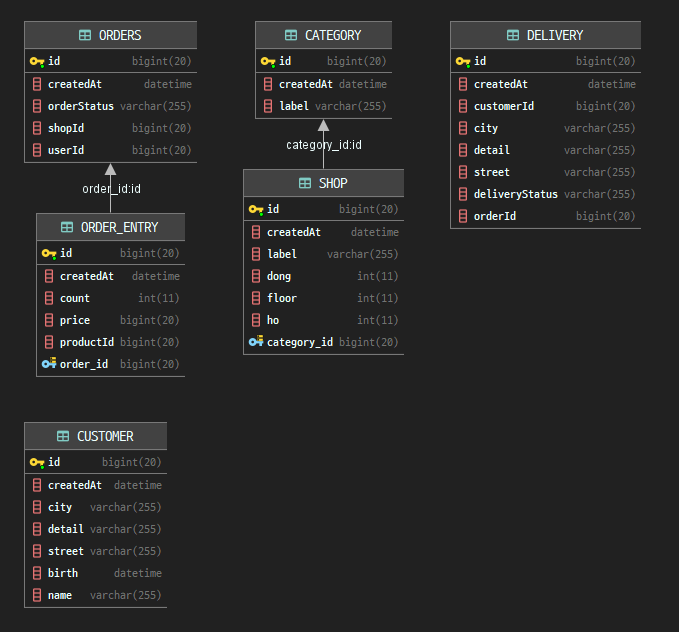
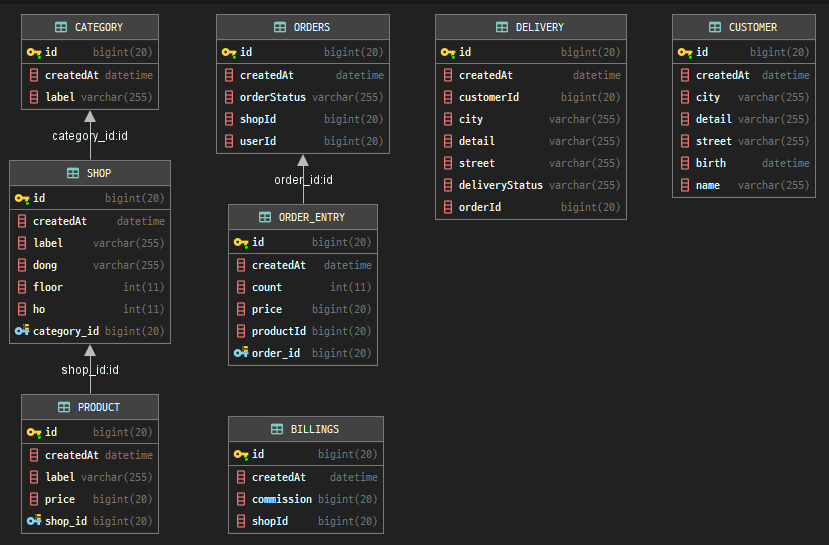
Product 엔티티 생성

Changed region(s): [[0.0, 0.0, 0.9897, 0.967]]

diff --git a/src/main/java/com/mall/shop/entity/Product.java b/src/main/java/com/mall/shop/entity/Product.java
@@ -1,0 +1,19 @@
+package com.mall.shop.entity;
+
+import com.mall.base.Base;
+import com.mall.base.Money;
+
+import javax.persistence.Entity;
+import javax.persistence.ManyToOne;
+import javax.persistence.Table;
+
+@Entity
+@Table(name = "PRODUCT")
+public class Product extends Base {
+    private Money price;
+
+    private String label;
+
+    @ManyToOne
+    private Shop shop;
+}

diff --git a/src/main/java/com/mall/shop/entity/Location.java b/src/main/java/com/mall/shop/entity/Location.java
@@ -3,11 +3,14 @@ package com.mall.shop.entity;
 import lombok.Builder;
 
 import javax.persistence.Embeddable;
+import javax.persistence.EnumType;
+import javax.persistence.Enumerated;
 
 @Embeddable
 public class Location {
     enum Dong {A, B, C, D}
 
+    @Enumerated(EnumType.STRING)
     private Dong dong;
 
     private Integer floor;
